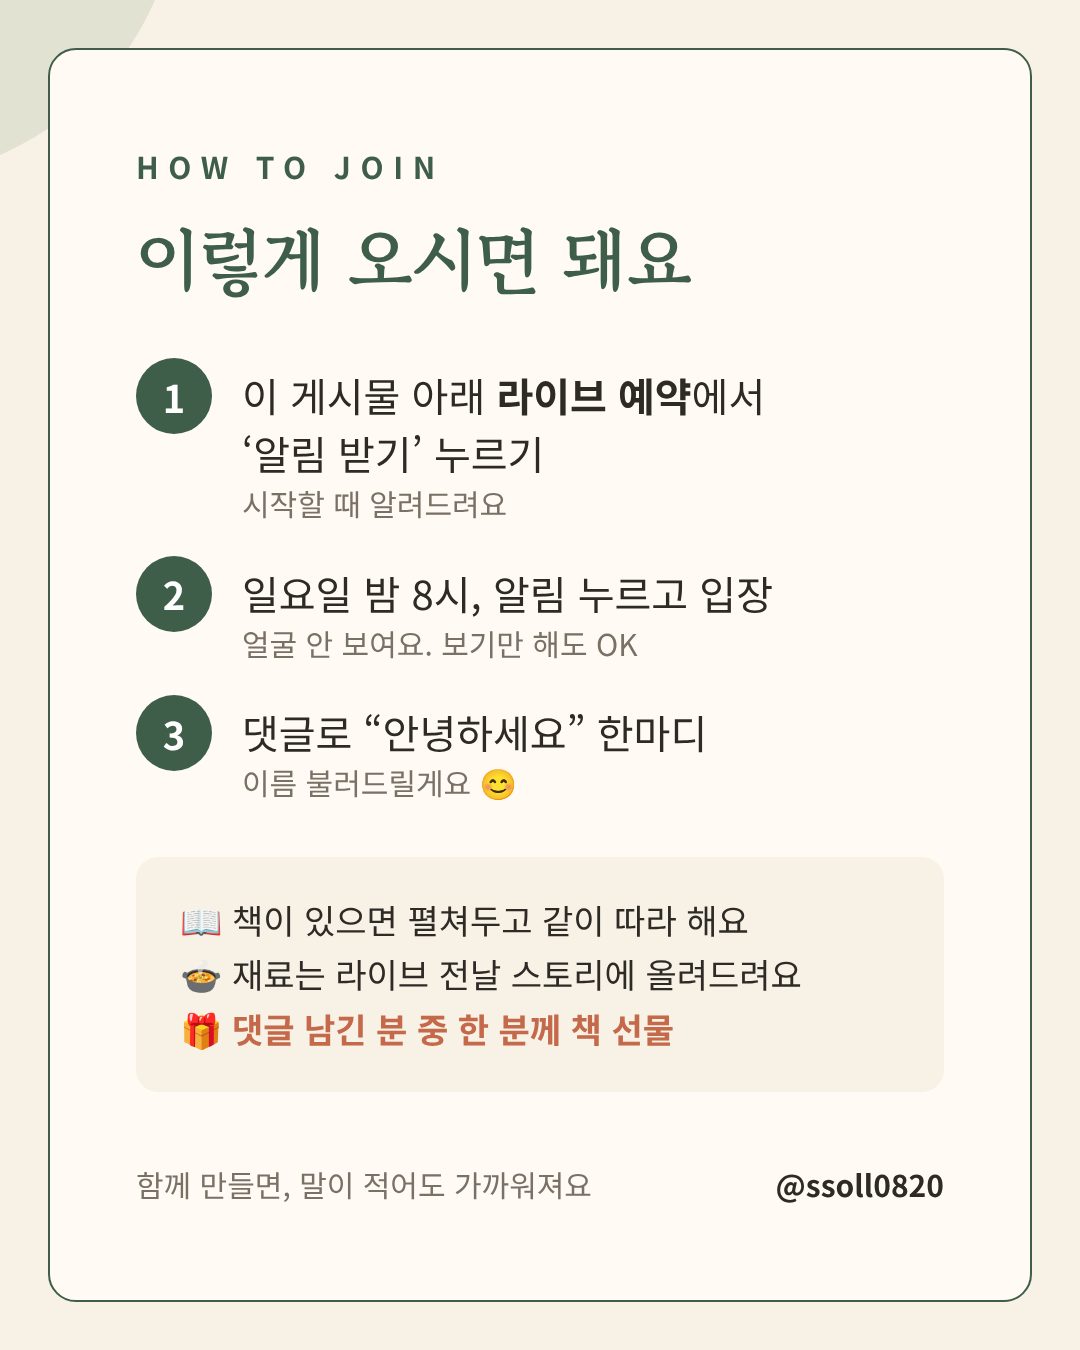
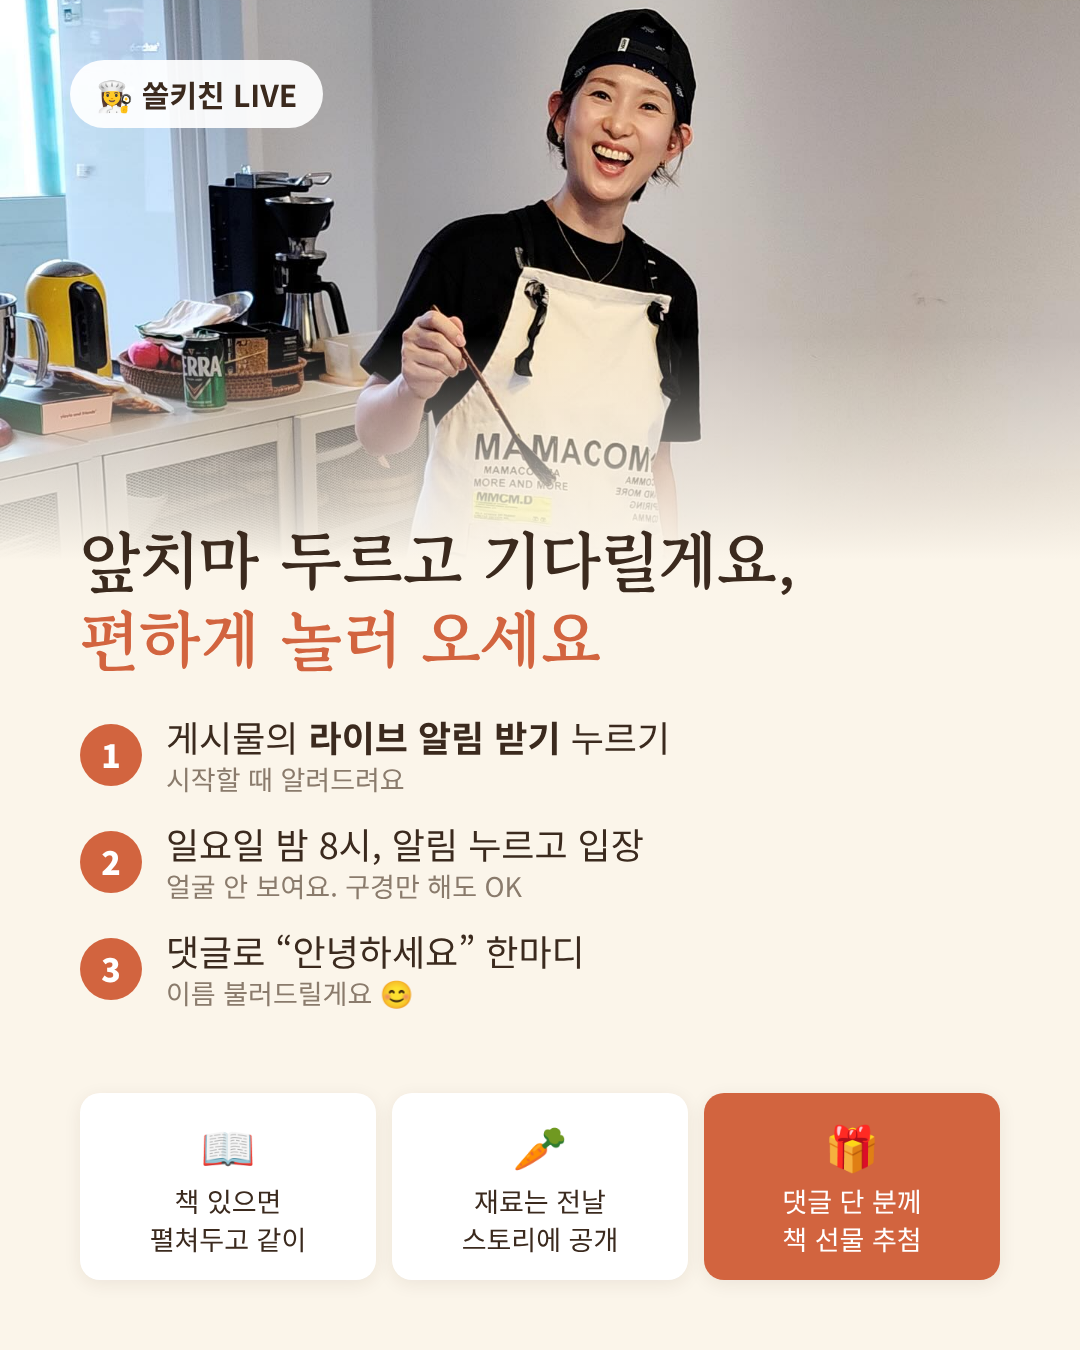
Redesign Ssol Kitchen LIVE invite with food photos
Claude-Session: https://claude.ai/code/session_01Ethqw4sohGTX5mGw2k3kXS

diff --git a/reports/invite/invite.html b/reports/invite/invite.html
@@ -1,66 +1,75 @@
 <!doctype html>
 <html lang="ko"><head><meta charset="utf-8">
-<link href="https://fonts.googleapis.com/css2?family=Gowun+Batang:wght@400;700&family=Noto+Sans+KR:wght@400;500;700&display=swap" rel="stylesheet">
+<link href="https://fonts.googleapis.com/css2?family=Gowun+Batang:wght@400;700&family=Noto+Sans+KR:wght@400;500;700;900&display=swap" rel="stylesheet">
 <style>
-:root{--cream:#F7F1E6;--paper:#FFFBF4;--green:#3F5E4A;--leaf:#7E9F7A;--terra:#C46A4A;--ink:#2E2A26;--muted:#7A7166}
+:root{--cream:#FBF5EA;--brown:#3B2A1E;--terra:#D2643F;--green:#3F5E4A;--muted:#8A7B6C}
 *{box-sizing:border-box;margin:0;padding:0}
-body{background:#ddd}
-.slide{width:1080px;height:1350px;background:var(--cream);position:relative;overflow:hidden;font-family:'Noto Sans KR',sans-serif;color:var(--ink)}
-.frame{position:absolute;inset:48px;border:2px solid var(--green);border-radius:28px;background:var(--paper)}
-.leaf{position:absolute;width:300px;height:300px;border-radius:0 100% 0 100%;background:var(--leaf);opacity:.18}
-.inner{position:absolute;inset:48px;padding:96px 88px;display:flex;flex-direction:column}
-.kicker{font-size:30px;letter-spacing:.32em;color:var(--green);font-weight:700}
-h1{font-family:'Gowun Batang',serif;font-size:150px;line-height:1.05;color:var(--green);margin-top:36px;font-weight:700}
-h1 .live{display:inline-block;font-family:'Noto Sans KR';font-size:44px;font-weight:700;color:#fff;background:var(--terra);border-radius:14px;padding:8px 20px;vertical-align:middle;margin-left:18px;letter-spacing:.08em}
-.sub{font-family:'Gowun Batang',serif;font-size:50px;line-height:1.45;margin-top:48px}
-.sub b{color:var(--terra)}
-.date{margin-top:auto;display:flex;align-items:stretch;gap:0;border:2px solid var(--green);border-radius:22px;overflow:hidden;width:max-content}
-.date .d{background:var(--green);color:#fff;padding:26px 40px;font-size:64px;font-weight:700;line-height:1}
-.date .d small{display:block;font-size:26px;font-weight:500;margin-top:10px;letter-spacing:.2em}
-.date .t{padding:26px 40px;font-size:56px;font-weight:700;color:var(--green);display:flex;flex-direction:column;justify-content:center;line-height:1.1}
-.date .t small{font-size:26px;color:var(--muted);font-weight:500;margin-top:8px}
-.foot{margin-top:44px;display:flex;justify-content:space-between;align-items:center;font-size:30px;color:var(--muted)}
-.foot b{color:var(--ink)}
-h2{font-family:'Gowun Batang',serif;font-size:72px;color:var(--green);line-height:1.2}
-.steps{margin-top:56px;display:flex;flex-direction:column;gap:30px}
-.step{display:flex;gap:30px;align-items:flex-start}
-.num{flex:none;width:76px;height:76px;border-radius:50%;background:var(--green);color:#fff;font-size:38px;font-weight:700;display:flex;align-items:center;justify-content:center}
-.step p{font-size:40px;line-height:1.45;padding-top:8px}
-.step p small{display:block;font-size:30px;color:var(--muted)}
-.box{margin-top:52px;background:var(--cream);border-radius:22px;padding:36px 44px;font-size:34px;line-height:1.6}
-.box b{color:var(--terra)}
+body{background:#ccc}
+.slide{width:1080px;height:1350px;position:relative;overflow:hidden;font-family:'Noto Sans KR',sans-serif;color:var(--brown);background:var(--cream)}
+/* slide 1 */
+#s1{background:#2A1C12}
+#s1 .photo{position:absolute;left:0;right:0;top:0;height:860px;background:url(img/table.jpg) center 82%/cover}
+#s1 .shade{position:absolute;left:0;right:0;top:0;height:862px;background:linear-gradient(180deg,rgba(42,28,18,.5) 0%,rgba(42,28,18,0) 18%,rgba(42,28,18,0) 70%,#2A1C12 100%)}
+#s1 .top{position:absolute;top:70px;left:80px;right:80px;display:flex;justify-content:space-between;align-items:center;color:#fff}
+.pill{background:var(--terra);color:#fff;font-weight:900;font-size:34px;letter-spacing:.1em;padding:12px 26px;border-radius:999px;display:flex;align-items:center;gap:14px}
+.pill i{width:16px;height:16px;border-radius:50%;background:#fff;display:inline-block}
+.handle{font-size:32px;font-weight:700;text-shadow:0 2px 10px rgba(0,0,0,.4)}
+#s1 .body{position:absolute;left:80px;right:80px;bottom:80px;color:#fff}
+.q{font-family:'Gowun Batang',serif;font-size:44px;text-shadow:0 2px 12px rgba(0,0,0,.85),0 0 4px rgba(0,0,0,.6)}
+#s1 h1{font-family:'Gowun Batang',serif;font-size:100px;line-height:1.12;margin-top:14px;font-weight:700}
+#s1 h1 em{font-style:normal;color:#FFC58F}
+.desc{font-size:36px;line-height:1.55;margin-top:26px;opacity:.92}
+.when{margin-top:40px;display:flex;gap:18px;align-items:center}
+.when .d{background:#fff;color:var(--brown);border-radius:20px;padding:20px 30px;font-size:48px;font-weight:900;line-height:1}
+.when .d small{font-size:26px;font-weight:700;color:var(--terra);margin-left:10px}
+.when .t{font-size:40px;font-weight:700}
+.when .t small{display:block;font-size:26px;font-weight:500;opacity:.85;margin-top:6px}
+/* slide 2 */
+#s2 .photo{position:absolute;left:0;right:0;top:0;height:560px;background:url(img/cooking.jpg) center 30%/cover}
+#s2 .photo:after{content:"";position:absolute;inset:0;background:linear-gradient(180deg,rgba(0,0,0,0) 60%,var(--cream) 100%)}
+#s2 .tag{position:absolute;top:60px;left:70px;background:rgba(255,255,255,.92);border-radius:999px;padding:12px 26px;font-size:30px;font-weight:700}
+#s2 .body{position:absolute;left:80px;right:80px;top:520px;bottom:70px;display:flex;flex-direction:column}
+#s2 h2{font-family:'Gowun Batang',serif;font-size:66px;color:var(--brown);line-height:1.2}
+#s2 h2 em{font-style:normal;color:var(--terra)}
+.steps{margin-top:34px;display:flex;flex-direction:column;gap:22px}
+.step{display:flex;gap:24px;align-items:center;font-size:36px;line-height:1.35}
+.num{flex:none;width:62px;height:62px;border-radius:50%;background:var(--terra);color:#fff;font-weight:900;font-size:32px;display:flex;align-items:center;justify-content:center}
+.step small{display:block;font-size:27px;color:var(--muted)}
+.perks{margin-top:auto;display:grid;grid-template-columns:1fr 1fr 1fr;gap:16px}
+.perk{background:#fff;border-radius:20px;padding:22px 18px;text-align:center;font-size:27px;line-height:1.4;box-shadow:0 4px 18px rgba(59,42,30,.08)}
+.perk b{display:block;font-size:44px;margin-bottom:6px}
+.perk.hot{background:var(--terra);color:#fff}
 </style></head><body>
 
 <section class="slide" id="s1">
-  <div class="leaf" style="top:-90px;right:-90px"></div>
-  <div class="leaf" style="bottom:-120px;left:-120px;transform:rotate(90deg)"></div>
-  <div class="frame"></div>
-  <div class="inner">
-    <div class="kicker">INVITATION · 초대장</div>
-    <h1>쏠키친<span class="live">LIVE</span></h1>
-    <p class="sub">『슬기로운 요리생활』 저자와<br>같이 만드는 <b>책 속 한 페이지</b> 🌿</p>
-    <p class="sub" style="font-size:38px;margin-top:28px;color:var(--muted);font-family:'Noto Sans KR'">카메라도, 신청도 필요 없어요.<br>편하게 들어와서 구경만 해도 돼요.</p>
-    <div class="date">
-      <div class="d">11.8<small>SUNDAY</small></div>
-      <div class="t">밤 8시<small>인스타 라이브 · 30분</small></div>
+  <div class="photo"></div><div class="shade"></div>
+  <div class="top"><div class="pill"><i></i>LIVE</div><div class="handle">@ssoll0820</div></div>
+  <div class="body">
+    <div class="q">『슬기로운 요리생활』 저자의 부엌으로</div>
+    <h1>일요일 밤,<br><em>같이 요리해요</em></h1>
+    <p class="desc">책 속 레시피를 한 페이지씩, 저자가 직접.<br>보기만 해도, 따라 해도 좋아요 🍳</p>
+    <div class="when">
+      <div class="d">11.8<small>SUN</small></div>
+      <div class="t">밤 8시 · 쏠키친 라이브<small>인스타 라이브 30분 · 신청 없이 누구나</small></div>
     </div>
-    <div class="foot"><span>격주 일요일 밤, 같은 시간에 만나요</span><b>@ssoll0820</b></div>
   </div>
 </section>
 
 <section class="slide" id="s2">
-  <div class="leaf" style="top:-120px;left:-120px;transform:rotate(90deg)"></div>
-  <div class="frame"></div>
-  <div class="inner">
-    <div class="kicker">HOW TO JOIN</div>
-    <h2 style="margin-top:28px">이렇게 오시면 돼요</h2>
+  <div class="photo"></div>
+  <div class="tag">👩🍳 쏠키친 LIVE</div>
+  <div class="body">
+    <h2>앞치마 두르고 기다릴게요,<br><em>편하게 놀러 오세요</em></h2>
     <div class="steps">
-      <div class="step"><div class="num">1</div><p>이 게시물 아래 <b>라이브 예약</b>에서<br>‘알림 받기’ 누르기<small>시작할 때 알려드려요</small></p></div>
-      <div class="step"><div class="num">2</div><p>일요일 밤 8시, 알림 누르고 입장<small>얼굴 안 보여요. 보기만 해도 OK</small></p></div>
-      <div class="step"><div class="num">3</div><p>댓글로 “안녕하세요” 한마디<small>이름 불러드릴게요 😊</small></p></div>
+      <div class="step"><div class="num">1</div><div>게시물의 <b>라이브 알림 받기</b> 누르기<small>시작할 때 알려드려요</small></div></div>
+      <div class="step"><div class="num">2</div><div>일요일 밤 8시, 알림 누르고 입장<small>얼굴 안 보여요. 구경만 해도 OK</small></div></div>
+      <div class="step"><div class="num">3</div><div>댓글로 “안녕하세요” 한마디<small>이름 불러드릴게요 😊</small></div></div>
     </div>
-    <div class="box">📖 책이 있으면 펼쳐두고 같이 따라 해요<br>🍲 재료는 라이브 전날 스토리에 올려드려요<br>🎁 <b>댓글 남긴 분 중 한 분께 책 선물</b></div>
-    <div class="foot" style="margin-top:auto"><span>함께 만들면, 말이 적어도 가까워져요</span><b>@ssoll0820</b></div>
+    <div class="perks">
+      <div class="perk"><b>📖</b>책 있으면<br>펼쳐두고 같이</div>
+      <div class="perk"><b>🥕</b>재료는 전날<br>스토리에 공개</div>
+      <div class="perk hot"><b>🎁</b>댓글 단 분께<br>책 선물 추첨</div>
+    </div>
   </div>
 </section>
 </body></html>
